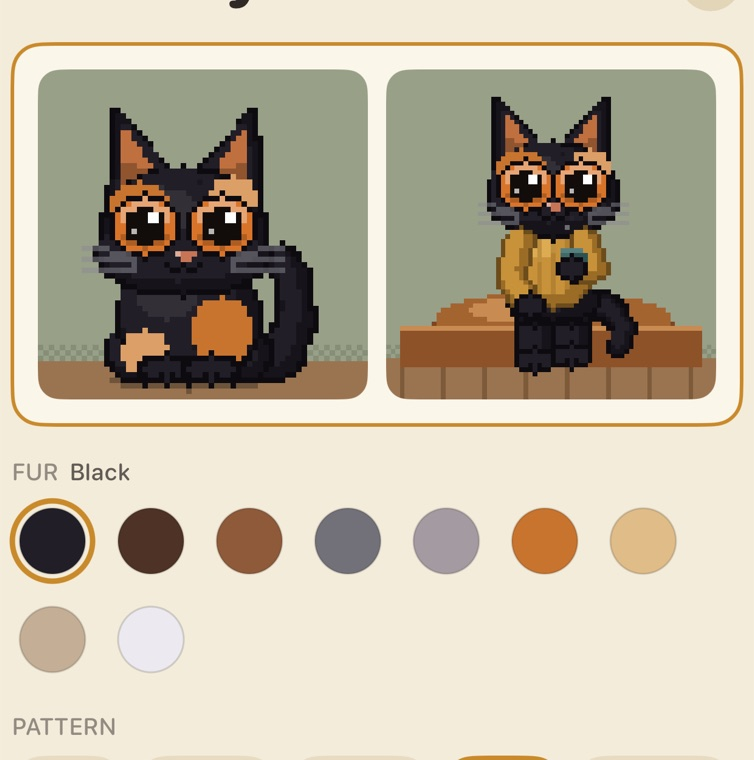
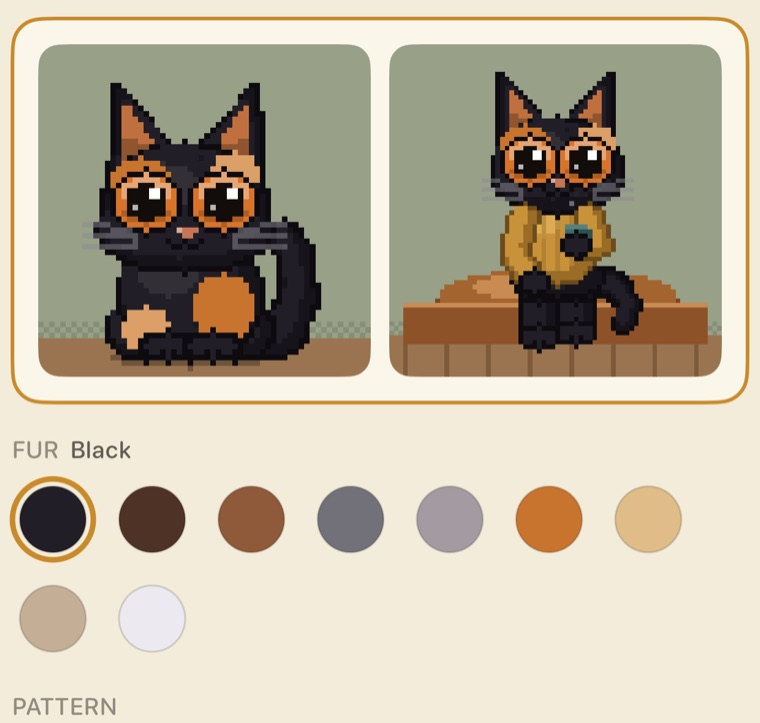
Feature images shown whole

diff --git a/style.css b/style.css
@@ -118,7 +118,10 @@ h2 { font-size: clamp(30px, 4.2vw, 46px); line-height: 1.1; margin: 0 0 14px; fo
 .tile .txt b { display: block; font-size: 22px; margin-bottom: 6px; line-height: 1.2; }
 .tile .txt span { color: var(--muted); }
 .tile .pic { margin-top: auto; padding: 0 22px; }
-.tile .pic img { border-radius: 18px 18px 0 0; border: 1px solid var(--line); border-bottom: 0; width: 100%; height: 270px; object-fit: cover; object-position: top center; }
+.tile .pic img { display: block; margin: 0 auto; width: auto; height: auto; max-width: min(100%, 380px); max-height: 320px; border-radius: 18px 18px 0 0; border: 1px solid var(--line); border-bottom: 0; }
+.t-wide { flex-direction: row; }
+.t-wide .txt { flex: 1; align-self: center; padding-bottom: 26px; }
+.t-wide .pic { flex: 0 0 48%; padding: 26px 26px 0 0; margin-top: 0; display: flex; align-items: flex-end; }
 .t-wide { grid-column: span 4; }
 .t-narrow { grid-column: span 2; }
 .t-half { grid-column: span 3; }
@@ -212,6 +215,9 @@ a.app:hover { transform: translateY(-3px); }
   .stage { max-width: 440px; margin: 0 auto; width: 100%; }
   .bento { grid-template-columns: 1fr; }
   .t-wide, .t-narrow, .t-half { grid-column: auto; }
+  .t-wide { flex-direction: column; }
+  .t-wide .txt { padding-bottom: 18px; }
+  .t-wide .pic { flex: none; padding: 0 22px; }
   .steps { grid-template-columns: 1fr; }
   .plans { grid-template-columns: 1fr; }
   .fact { grid-template-columns: 1fr; padding: 32px; gap: 18px; }

diff --git a/sweatercat/uk/index.html b/sweatercat/uk/index.html
@@ -16,7 +16,7 @@
 <meta name="twitter:card" content="summary_large_image">
 <link rel="icon" href="../../favicon.png">
 <link rel="apple-touch-icon" href="../../favicon.png">
-<link rel="stylesheet" href="../../style.css?v=b6b31e30">
+<link rel="stylesheet" href="../../style.css?v=50d0cd30">
 <script>document.documentElement.classList.add("js")</script>
 <script type="application/ld+json">{"@context":"https://schema.org","@type":"SoftwareApplication","name":"Sweater Cat","operatingSystem":"iOS","applicationCategory":"ProductivityApplication","offers":{"@type":"Offer","price":"0","priceCurrency":"USD"},"publisher":{"@type":"Organization","name":"Kineskop"}}</script>
 </head>
@@ -115,6 +115,6 @@
     <span><a href="../../sweatercat/privacy.html">Конфіденційність</a> · <a href="../../sweatercat/support.html">Підтримка</a> · <a href="mailto:kineskop.app@gmail.com">kineskop.app@gmail.com</a></span>
   </footer>
 </main>
-<script src="../../site.js?v=b6b31e30" defer></script>
+<script src="../../site.js?v=50d0cd30" defer></script>
 </body>
 </html>

diff --git a/sweatercat/index.html b/sweatercat/index.html
@@ -16,7 +16,7 @@
 <meta name="twitter:card" content="summary_large_image">
 <link rel="icon" href="../favicon.png">
 <link rel="apple-touch-icon" href="../favicon.png">
-<link rel="stylesheet" href="../style.css?v=b6b31e30">
+<link rel="stylesheet" href="../style.css?v=50d0cd30">
 <script>document.documentElement.classList.add("js")</script>
 <script type="application/ld+json">{"@context":"https://schema.org","@type":"SoftwareApplication","name":"Sweater Cat","operatingSystem":"iOS","applicationCategory":"ProductivityApplication","offers":{"@type":"Offer","price":"0","priceCurrency":"USD"},"publisher":{"@type":"Organization","name":"Kineskop"}}</script>
 </head>
@@ -115,6 +115,6 @@
     <span><a href="../sweatercat/privacy.html">Privacy</a> · <a href="../sweatercat/support.html">Support</a> · <a href="mailto:kineskop.app@gmail.com">kineskop.app@gmail.com</a></span>
   </footer>
 </main>
-<script src="../site.js?v=b6b31e30" defer></script>
+<script src="../site.js?v=50d0cd30" defer></script>
 </body>
 </html>

diff --git a/index.html b/index.html
@@ -9,7 +9,7 @@
 <meta property="og:description" content="A tiny studio making cozy retro games and apps.">
 <meta property="og:image" content="https://kineskop-app.github.io/sweatercat/img/en_1.jpg">
 <link rel="icon" href="favicon.png">
-<link rel="stylesheet" href="style.css?v=b6b31e30">
+<link rel="stylesheet" href="style.css?v=50d0cd30">
 </head>
 <body>
 <div class="wrap">

diff --git a/sweatercat/uk/thanks.html b/sweatercat/uk/thanks.html
@@ -5,7 +5,7 @@
 <meta name="viewport" content="width=device-width, initial-scale=1">
 <title>Мрр! Ти в списку 🐾</title>
 <link rel="icon" href="../../favicon.png">
-<link rel="stylesheet" href="../../style.css?v=b6b31e30">
+<link rel="stylesheet" href="../../style.css?v=50d0cd30">
 </head>
 <body>
 <div class="wrap">

diff --git a/sweatercat/privacy.html b/sweatercat/privacy.html
@@ -5,7 +5,7 @@
 <meta name="viewport" content="width=device-width, initial-scale=1">
 <title>Sweater Cat — Privacy Policy</title>
 <link rel="icon" href="../favicon.png">
-<link rel="stylesheet" href="../style.css?v=b6b31e30">
+<link rel="stylesheet" href="../style.css?v=50d0cd30">
 </head>
 <body>
 <div class="wrap">

diff --git a/sweatercat/thanks.html b/sweatercat/thanks.html
@@ -5,7 +5,7 @@
 <meta name="viewport" content="width=device-width, initial-scale=1">
 <title>Mrr! You're on the list 🐾</title>
 <link rel="icon" href="../favicon.png">
-<link rel="stylesheet" href="../style.css?v=b6b31e30">
+<link rel="stylesheet" href="../style.css?v=50d0cd30">
 </head>
 <body>
 <div class="wrap">

diff --git a/sweatercat/support.html b/sweatercat/support.html
@@ -5,7 +5,7 @@
 <meta name="viewport" content="width=device-width, initial-scale=1">
 <title>Sweater Cat — Support</title>
 <link rel="icon" href="../favicon.png">
-<link rel="stylesheet" href="../style.css?v=b6b31e30">
+<link rel="stylesheet" href="../style.css?v=50d0cd30">
 </head>
 <body>
 <div class="wrap">
